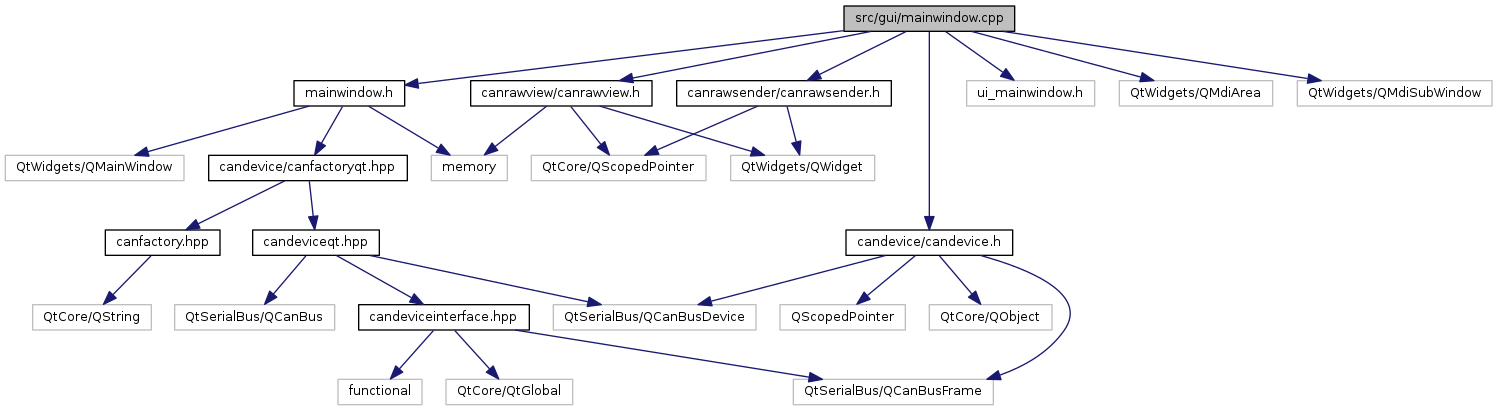
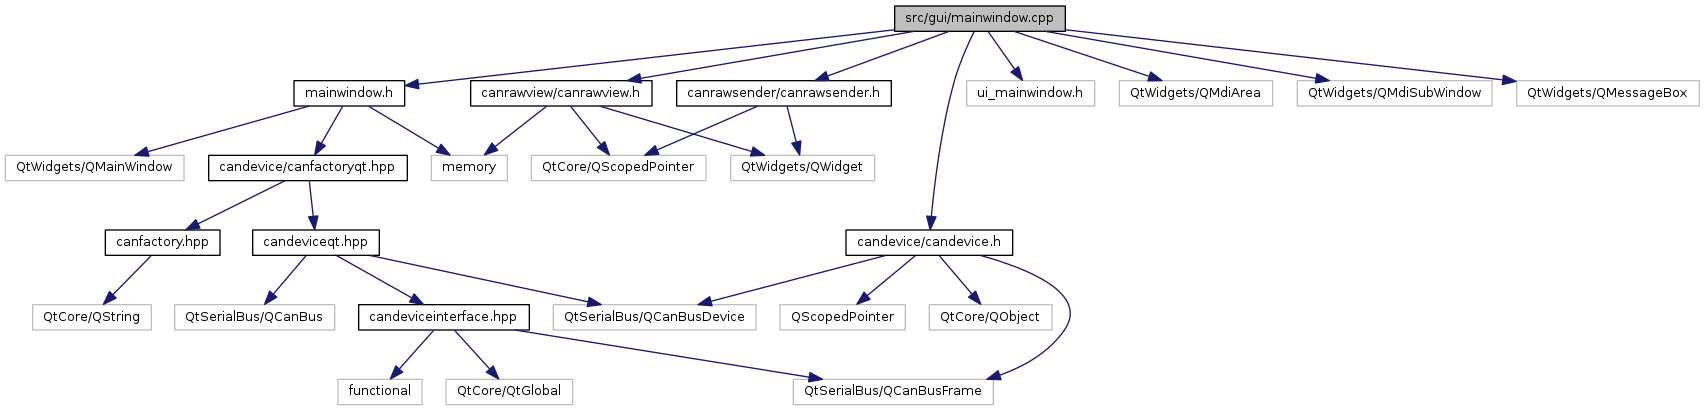
Deploy code docs to GitHub Pages Travis build: 148
Commit: cb6c31486f77aaffa19a47de9a210f51205d82cd

diff --git a/master/mainwindow_8h_source.html b/master/mainwindow_8h_source.html
@@ -108,7 +108,7 @@ $(document).ready(function(){initNavTree('mainwindow_8h_source.html','');});
 <div class="title">mainwindow.h</div>  </div>
 </div><!--header-->
 <div class="contents">
-<a href="mainwindow_8h.html">Go to the documentation of this file.</a><div class="fragment"><div class="line"><a name="l00001"></a><span class="lineno">    1</span>&#160;<span class="preprocessor">#ifndef MAINWINDOW_H</span></div><div class="line"><a name="l00002"></a><span class="lineno">    2</span>&#160;<span class="preprocessor">#define MAINWINDOW_H</span></div><div class="line"><a name="l00003"></a><span class="lineno">    3</span>&#160;</div><div class="line"><a name="l00004"></a><span class="lineno">    4</span>&#160;<span class="preprocessor">#include &lt;QtWidgets/QMainWindow&gt;</span></div><div class="line"><a name="l00005"></a><span class="lineno">    5</span>&#160;<span class="preprocessor">#include &lt;memory&gt;</span></div><div class="line"><a name="l00006"></a><span class="lineno">    6</span>&#160;</div><div class="line"><a name="l00007"></a><span class="lineno">    7</span>&#160;<span class="preprocessor">#include &quot;<a class="code" href="canfactoryqt_8hpp.html">candevice/canfactoryqt.hpp</a>&quot;</span></div><div class="line"><a name="l00008"></a><span class="lineno">    8</span>&#160;</div><div class="line"><a name="l00009"></a><span class="lineno">    9</span>&#160;<span class="keyword">class </span>QMdiArea;</div><div class="line"><a name="l00010"></a><span class="lineno">   10</span>&#160;</div><div class="line"><a name="l00011"></a><span class="lineno">   11</span>&#160;<span class="keyword">namespace </span><a class="code" href="namespace_ui.html">Ui</a> {</div><div class="line"><a name="l00012"></a><span class="lineno">   12</span>&#160;<span class="keyword">class </span><a class="code" href="class_main_window.html">MainWindow</a>;</div><div class="line"><a name="l00013"></a><span class="lineno">   13</span>&#160;}</div><div class="line"><a name="l00014"></a><span class="lineno">   14</span>&#160;</div><div class="line"><a name="l00015"></a><span class="lineno"><a class="line" href="class_main_window.html">   15</a></span>&#160;<span class="keyword">class </span><a class="code" href="class_main_window.html">MainWindow</a> : <span class="keyword">public</span> QMainWindow</div><div class="line"><a name="l00016"></a><span class="lineno">   16</span>&#160;{</div><div class="line"><a name="l00017"></a><span class="lineno">   17</span>&#160;    Q_OBJECT</div><div class="line"><a name="l00018"></a><span class="lineno">   18</span>&#160;</div><div class="line"><a name="l00019"></a><span class="lineno">   19</span>&#160;<span class="keyword">public</span>:</div><div class="line"><a name="l00020"></a><span class="lineno">   20</span>&#160;    <span class="keyword">explicit</span> <a class="code" href="class_main_window.html">MainWindow</a>(QWidget* parent = <span class="keyword">nullptr</span>);</div><div class="line"><a name="l00021"></a><span class="lineno">   21</span>&#160;    ~<a class="code" href="class_main_window.html">MainWindow</a>();</div><div class="line"><a name="l00022"></a><span class="lineno">   22</span>&#160;</div><div class="line"><a name="l00023"></a><span class="lineno">   23</span>&#160;<span class="keyword">private</span>:</div><div class="line"><a name="l00024"></a><span class="lineno">   24</span>&#160;    std::unique_ptr&lt;Ui::MainWindow&gt; ui;</div><div class="line"><a name="l00025"></a><span class="lineno">   25</span>&#160;    <span class="keywordtype">void</span> handleDock(QWidget* component, QMdiArea* mdi);</div><div class="line"><a name="l00026"></a><span class="lineno">   26</span>&#160;};</div><div class="line"><a name="l00027"></a><span class="lineno">   27</span>&#160;</div><div class="line"><a name="l00028"></a><span class="lineno">   28</span>&#160;<span class="preprocessor">#endif // MAINWINDOW_H</span></div><div class="ttc" id="namespace_ui_html"><div class="ttname"><a href="namespace_ui.html">Ui</a></div><div class="ttdef"><b>Definition:</b> canrawsender_p.h:9</div></div>
+<a href="mainwindow_8h.html">Go to the documentation of this file.</a><div class="fragment"><div class="line"><a name="l00001"></a><span class="lineno">    1</span>&#160;<span class="preprocessor">#ifndef MAINWINDOW_H</span></div><div class="line"><a name="l00002"></a><span class="lineno">    2</span>&#160;<span class="preprocessor">#define MAINWINDOW_H</span></div><div class="line"><a name="l00003"></a><span class="lineno">    3</span>&#160;</div><div class="line"><a name="l00004"></a><span class="lineno">    4</span>&#160;<span class="preprocessor">#include &lt;QtWidgets/QMainWindow&gt;</span></div><div class="line"><a name="l00005"></a><span class="lineno">    5</span>&#160;<span class="preprocessor">#include &lt;memory&gt;</span></div><div class="line"><a name="l00006"></a><span class="lineno">    6</span>&#160;</div><div class="line"><a name="l00007"></a><span class="lineno">    7</span>&#160;<span class="preprocessor">#include &quot;<a class="code" href="canfactoryqt_8hpp.html">candevice/canfactoryqt.hpp</a>&quot;</span></div><div class="line"><a name="l00008"></a><span class="lineno">    8</span>&#160;</div><div class="line"><a name="l00009"></a><span class="lineno">    9</span>&#160;<span class="keyword">class </span>QMdiArea;</div><div class="line"><a name="l00010"></a><span class="lineno">   10</span>&#160;</div><div class="line"><a name="l00011"></a><span class="lineno">   11</span>&#160;<span class="keyword">namespace </span><a class="code" href="namespace_ui.html">Ui</a> {</div><div class="line"><a name="l00012"></a><span class="lineno">   12</span>&#160;<span class="keyword">class </span><a class="code" href="class_main_window.html">MainWindow</a>;</div><div class="line"><a name="l00013"></a><span class="lineno">   13</span>&#160;}</div><div class="line"><a name="l00014"></a><span class="lineno">   14</span>&#160;</div><div class="line"><a name="l00015"></a><span class="lineno"><a class="line" href="class_main_window.html">   15</a></span>&#160;<span class="keyword">class </span><a class="code" href="class_main_window.html">MainWindow</a> : <span class="keyword">public</span> QMainWindow</div><div class="line"><a name="l00016"></a><span class="lineno">   16</span>&#160;{</div><div class="line"><a name="l00017"></a><span class="lineno">   17</span>&#160;    Q_OBJECT</div><div class="line"><a name="l00018"></a><span class="lineno">   18</span>&#160;</div><div class="line"><a name="l00019"></a><span class="lineno">   19</span>&#160;<span class="keyword">public</span>:</div><div class="line"><a name="l00020"></a><span class="lineno">   20</span>&#160;    <span class="keyword">explicit</span> <a class="code" href="class_main_window.html">MainWindow</a>(QWidget* parent = <span class="keyword">nullptr</span>);</div><div class="line"><a name="l00021"></a><span class="lineno">   21</span>&#160;    ~<a class="code" href="class_main_window.html">MainWindow</a>();</div><div class="line"><a name="l00022"></a><span class="lineno">   22</span>&#160;</div><div class="line"><a name="l00023"></a><span class="lineno">   23</span>&#160;<span class="keyword">private</span>:</div><div class="line"><a name="l00024"></a><span class="lineno">   24</span>&#160;    std::unique_ptr&lt;Ui::MainWindow&gt; ui;</div><div class="line"><a name="l00025"></a><span class="lineno">   25</span>&#160;    <span class="keywordtype">void</span> handleDock(QWidget* component, QMdiArea* mdi);</div><div class="line"><a name="l00026"></a><span class="lineno">   26</span>&#160;<span class="keyword">private</span> slots:</div><div class="line"><a name="l00027"></a><span class="lineno">   27</span>&#160;    <span class="keywordtype">void</span> handleExitAction(<span class="keywordtype">void</span>);</div><div class="line"><a name="l00028"></a><span class="lineno">   28</span>&#160;};</div><div class="line"><a name="l00029"></a><span class="lineno">   29</span>&#160;</div><div class="line"><a name="l00030"></a><span class="lineno">   30</span>&#160;<span class="preprocessor">#endif // MAINWINDOW_H</span></div><div class="ttc" id="namespace_ui_html"><div class="ttname"><a href="namespace_ui.html">Ui</a></div><div class="ttdef"><b>Definition:</b> canrawsender_p.h:9</div></div>
 <div class="ttc" id="canfactoryqt_8hpp_html"><div class="ttname"><a href="canfactoryqt_8hpp.html">canfactoryqt.hpp</a></div></div>
 <div class="ttc" id="class_main_window_html"><div class="ttname"><a href="class_main_window.html">MainWindow</a></div><div class="ttdef"><b>Definition:</b> mainwindow.h:15</div></div>
 </div><!-- fragment --></div><!-- contents -->

diff --git a/master/mainwindow_8cpp.html b/master/mainwindow_8cpp.html
@@ -115,6 +115,7 @@ $(document).ready(function(){initNavTree('mainwindow_8cpp.html','');});
 <code>#include &quot;<a class="el" href="canrawview_8h_source.html">canrawview/canrawview.h</a>&quot;</code><br />
 <code>#include &lt;QtWidgets/QMdiArea&gt;</code><br />
 <code>#include &lt;QtWidgets/QMdiSubWindow&gt;</code><br />
+<code>#include &lt;QtWidgets/QMessageBox&gt;</code><br />
 </div><div class="textblock"><div class="dynheader">
 Include dependency graph for mainwindow.cpp:</div>
 <div class="dyncontent">
